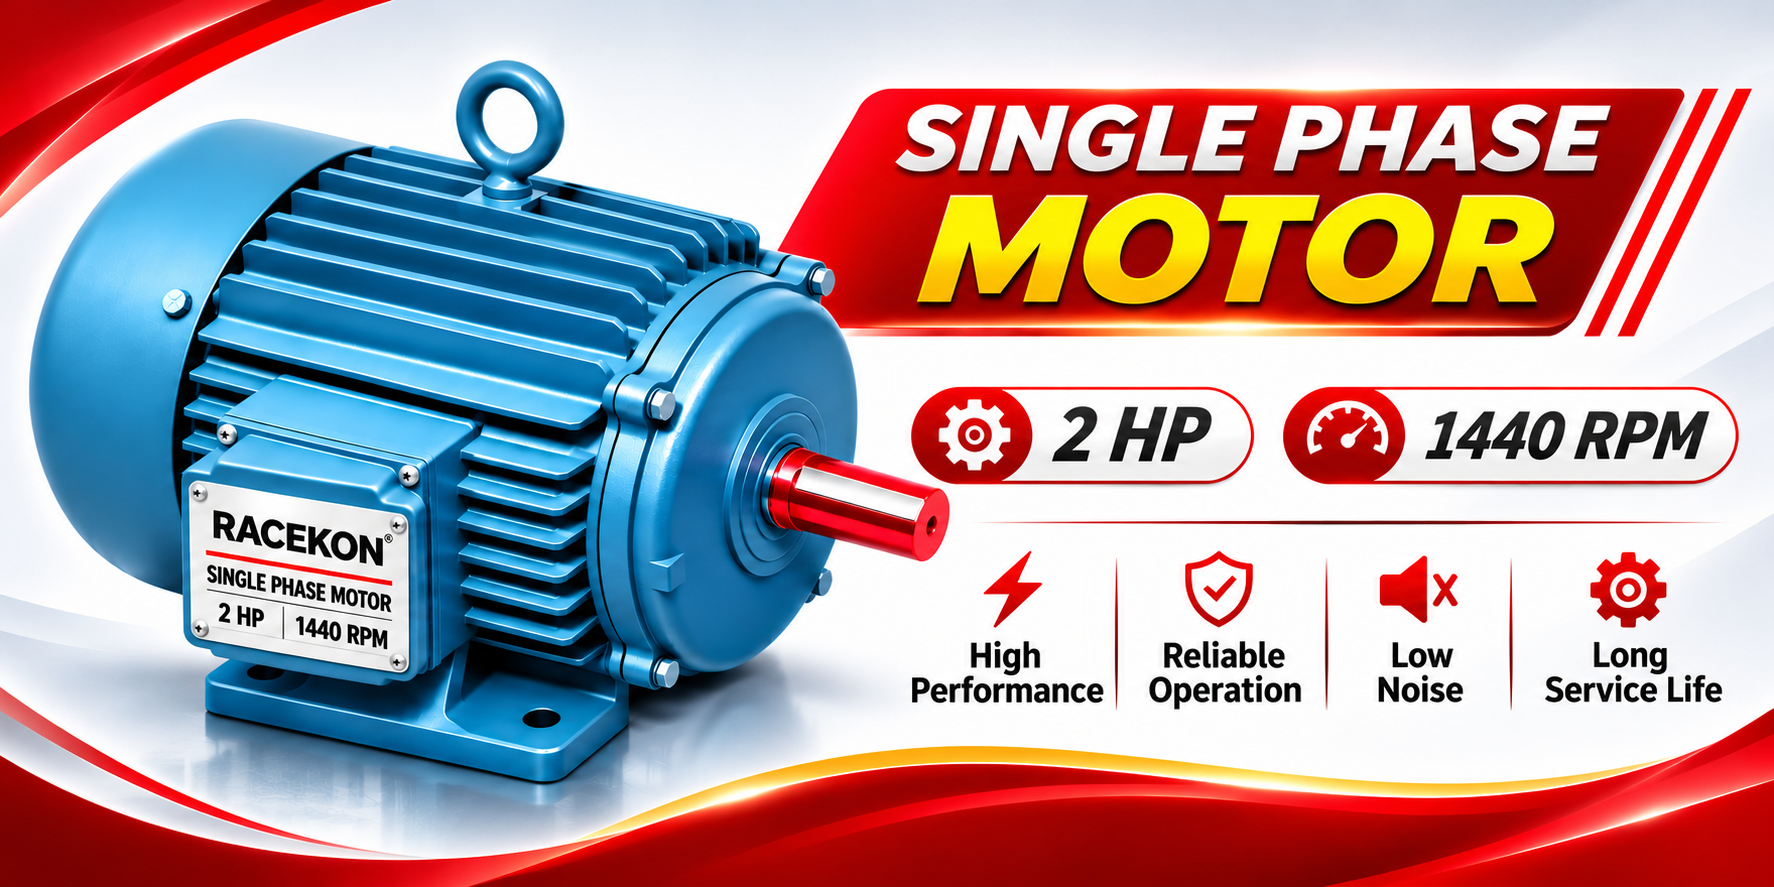
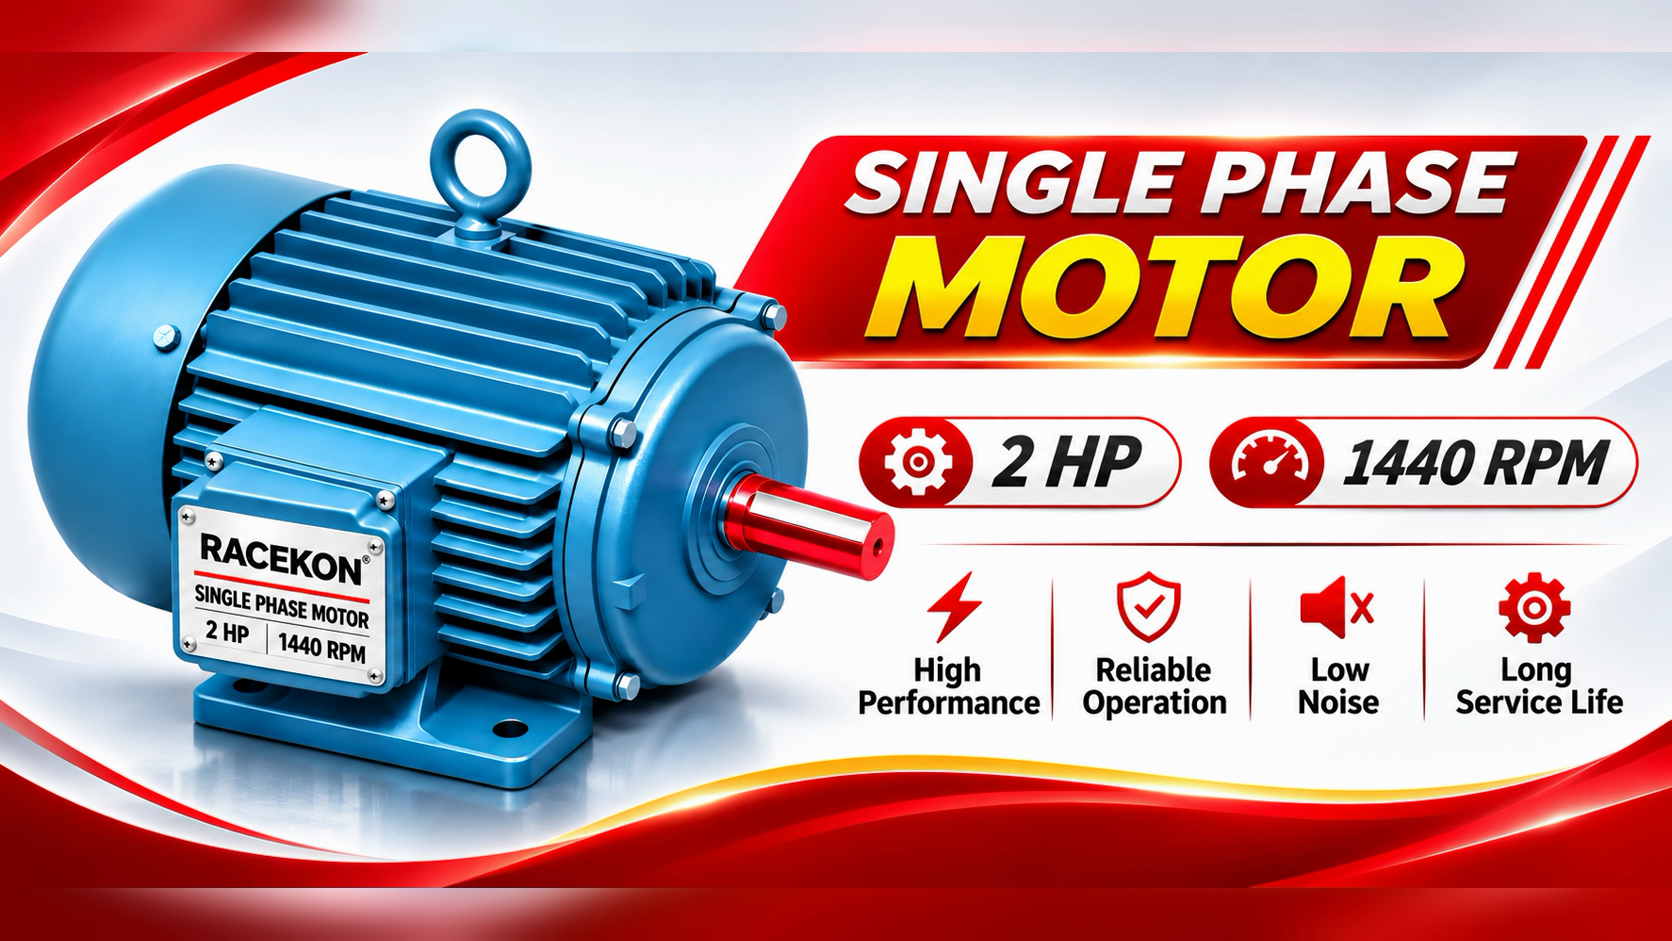
slider config

diff --git a/index.htm b/index.htm
@@ -8,6 +8,7 @@
   <link media="all" href="wp-content/cache/autoptimize/css/autoptimize_dfbdf34f569ed2bd21aea2799009aac2.css"
     rel="stylesheet">
   <title>RACEKON &#8211; MANUFACTURER OF AC SYNCHRONOUS MOTOR</title>
+  <script src="slider-config.js"></script>
   <meta name='robots' content='max-image-preview:large'>
   <link rel='dns-prefetch' href='//client.crisp.chat'>
   <link rel='dns-prefetch' href='//fonts.googleapis.com'>
@@ -49,8 +50,43 @@
   <meta name="msapplication-TileImage"
     content="https://www.racekon.com/wp-content/uploads/2018/07/cropped-IMG_20180725_125405-2-270x270.jpg">
   <script>(function () { this._N2 = this._N2 || { _r: [], _d: [], r: function () { this._r.push(arguments) }, d: function () { this._d.push(arguments) } } }).call(window); !function (a) { a.indexOf("Safari") > 0 && -1 === a.indexOf("Chrome") && document.documentElement.style.setProperty("--ss-safari-fix-225962", "1px") }(navigator.userAgent);</script>
-  <script>_N2.r('documentReady', function () { _N2.r(["documentReady", "smartslider-frontend", "SmartSliderWidgetArrowImage", "SmartSliderWidgetBulletTransition", "ss-simple"], function () { new _N2.SmartSliderSimple('n2-ss-2', { "admin": false, "callbacks": "", "background.video.mobile": 1, "loadingTime": 2000, "alias": { "id": 0, "smoothScroll": 0, "slideSwitch": 0, "scroll": 1 }, "align": "normal", "isDelayed": 0, "responsive": { "mediaQueries": { "all": false, "desktopportrait": ["(min-width: 1200px)"], "tabletportrait": ["(orientation: landscape) and (max-width: 1199px) and (min-width: 901px)", "(orientation: portrait) and (max-width: 1199px) and (min-width: 701px)"], "mobileportrait": ["(orientation: landscape) and (max-width: 900px)", "(orientation: portrait) and (max-width: 700px)"] }, "base": { "slideOuterWidth": 300, "slideOuterHeight": 150, "sliderWidth": 300, "sliderHeight": 150, "slideWidth": 300, "slideHeight": 150 }, "hideOn": { "desktopLandscape": false, "desktopPortrait": false, "tabletLandscape": false, "tabletPortrait": false, "mobileLandscape": false, "mobilePortrait": false }, "onResizeEnabled": true, "type": "auto", "sliderHeightBasedOn": "real", "focusUser": 1, "focusEdge": "auto", "breakpoints": [{ "device": "tabletPortrait", "type": "max-screen-width", "portraitWidth": 1199, "landscapeWidth": 1199 }, { "device": "mobilePortrait", "type": "max-screen-width", "portraitWidth": 700, "landscapeWidth": 900 }], "enabledDevices": { "desktopLandscape": 0, "desktopPortrait": 1, "tabletLandscape": 0, "tabletPortrait": 1, "mobileLandscape": 0, "mobilePortrait": 1 }, "sizes": { "desktopPortrait": { "width": 300, "height": 150, "max": 3000, "min": 300 }, "tabletPortrait": { "width": 300, "height": 150, "customHeight": false, "max": 1199, "min": 300 }, "mobilePortrait": { "width": 300, "height": 150, "customHeight": false, "max": 900, "min": 300 } }, "overflowHiddenPage": 0, "focus": { "offsetTop": "#wpadminbar", "offsetBottom": "" } }, "controls": { "mousewheel": 0, "touch": "horizontal", "keyboard": 1, "blockCarouselInteraction": 1 }, "playWhenVisible": 1, "playWhenVisibleAt": 0.5, "lazyLoad": 0, "lazyLoadNeighbor": 0, "blockrightclick": 0, "maintainSession": 0, "autoplay": { "enabled": 1, "start": 1, "duration": 2000, "autoplayLoop": 1, "allowReStart": 0, "pause": { "click": 0, "mouse": "0", "mediaStarted": 1 }, "resume": { "click": 0, "mouse": "0", "mediaEnded": 1, "slidechanged": 0 }, "interval": 1, "intervalModifier": "loop", "intervalSlide": "current" }, "perspective": 1500, "layerMode": { "playOnce": 0, "playFirstLayer": 1, "mode": "skippable", "inAnimation": "mainInEnd" }, "bgAnimations": 0, "mainanimation": { "type": "fade", "duration": 600, "delay": 0, "ease": "easeOutQuad", "shiftedBackgroundAnimation": 0 }, "carousel": 1, "initCallbacks": function () { new _N2.SmartSliderWidgetArrowImage(this); new _N2.SmartSliderWidgetBulletTransition(this, { "area": 12, "dotClasses": "n2-style-98b890a69860771f94d32019bd5202d1-dot ", "mode": "", "action": "click", "thumbnail": 1, "thumbnailWidth": 120, "thumbnailHeight": 81, "thumbnailStyle": "n2-style-4eb0cfe3f8b39eae2833f25a46a1ccc3-simple ", "thumbnailPosition": "top" }) } }) }) });</script>
+  <script>_N2.r('documentReady', function () { _N2.r(["documentReady", "smartslider-frontend", "SmartSliderWidgetArrowImage", "SmartSliderWidgetBulletTransition", "ss-simple"], function () { new _N2.SmartSliderSimple('n2-ss-2', { "admin": false, "callbacks": "", "background.video.mobile": 1, "loadingTime": 2000, "alias": { "id": 0, "smoothScroll": 0, "slideSwitch": 0, "scroll": 1 }, "align": "normal", "isDelayed": 0, "responsive": { "mediaQueries": { "all": false, "desktopportrait": ["(min-width: 1200px)"], "tabletportrait": ["(orientation: landscape) and (max-width: 1199px) and (min-width: 901px)", "(orientation: portrait) and (max-width: 1199px) and (min-width: 701px)"], "mobileportrait": ["(orientation: landscape) and (max-width: 900px)", "(orientation: portrait) and (max-width: 700px)"] }, "base": { "slideOuterWidth": 1672, "slideOuterHeight": 941, "sliderWidth": 1672, "sliderHeight": 941, "slideWidth": 1672, "slideHeight": 941 }, "hideOn": { "desktopLandscape": false, "desktopPortrait": false, "tabletLandscape": false, "tabletPortrait": false, "mobileLandscape": false, "mobilePortrait": false }, "onResizeEnabled": true, "type": "auto", "sliderHeightBasedOn": "real", "focusUser": 1, "focusEdge": "auto", "breakpoints": [{ "device": "tabletPortrait", "type": "max-screen-width", "portraitWidth": 1199, "landscapeWidth": 1199 }, { "device": "mobilePortrait", "type": "max-screen-width", "portraitWidth": 700, "landscapeWidth": 900 }], "enabledDevices": { "desktopLandscape": 0, "desktopPortrait": 1, "tabletLandscape": 0, "tabletPortrait": 1, "mobileLandscape": 0, "mobilePortrait": 1 }, "sizes": { "desktopPortrait": { "width": 1672, "height": 941, "max": 5000, "min": 300 }, "tabletPortrait": { "width": 1672, "height": 941, "customHeight": false, "max": 1199, "min": 300 }, "mobilePortrait": { "width": 1672, "height": 941, "customHeight": false, "max": 900, "min": 300 } }, "overflowHiddenPage": 0, "focus": { "offsetTop": "#wpadminbar", "offsetBottom": "" } }, "controls": { "mousewheel": 0, "touch": "horizontal", "keyboard": 1, "blockCarouselInteraction": 1 }, "playWhenVisible": 1, "playWhenVisibleAt": 0.5, "lazyLoad": 0, "lazyLoadNeighbor": 0, "blockrightclick": 0, "maintainSession": 0, "autoplay": { "enabled": 1, "start": 1, "duration": 2000, "autoplayLoop": 1, "allowReStart": 0, "pause": { "click": 0, "mouse": "0", "mediaStarted": 1 }, "resume": { "click": 0, "mouse": "0", "mediaEnded": 1, "slidechanged": 0 }, "interval": 1, "intervalModifier": "loop", "intervalSlide": "current" }, "perspective": 1500, "layerMode": { "playOnce": 0, "playFirstLayer": 1, "mode": "skippable", "inAnimation": "mainInEnd" }, "bgAnimations": 0, "mainanimation": { "type": "fade", "duration": 600, "delay": 0, "ease": "easeOutQuad", "shiftedBackgroundAnimation": 0 }, "carousel": 1, "initCallbacks": function () { new _N2.SmartSliderWidgetArrowImage(this); new _N2.SmartSliderWidgetBulletTransition(this, { "area": 12, "dotClasses": "n2-style-98b890a69860771f94d32019bd5202d1-dot ", "mode": "", "action": "click", "thumbnail": 1, "thumbnailWidth": 120, "thumbnailHeight": 81, "thumbnailStyle": "n2-style-4eb0cfe3f8b39eae2833f25a46a1ccc3-simple ", "thumbnailPosition": "top" }) } }) }) });</script>
   <style>
+    /* Full-width carousel slider on homepage */
+    .home .site-content > .ast-container {
+      max-width: 100% !important;
+      padding-left: 0 !important;
+      padding-right: 0 !important;
+    }
+    .elementor-section.elementor-element-0f16af0 {
+      max-width: 100% !important;
+      width: auto !important;
+      padding: var(--slider-padding-top, 0) var(--slider-padding-right, 0) var(--slider-padding-bottom, 0) var(--slider-padding-left, 0) !important;
+      margin: var(--slider-margin-top, 15px) var(--slider-margin-right, 0) var(--slider-margin-bottom, 35px) var(--slider-margin-left, 0) !important;
+      box-sizing: border-box !important;
+    }
+    .elementor-element-0f16af0 > .elementor-container {
+      max-width: 100% !important;
+      width: 100% !important;
+      padding: 0 !important;
+      margin: 0 !important;
+    }
+    .elementor-element-0f16af0 .elementor-column-wrap,
+    .elementor-element-0f16af0 .elementor-widget-wrap,
+    .elementor-element-0f16af0 .elementor-widget-container,
+    .elementor-element-0f16af0 .n2-section-smartslider,
+    .elementor-element-0f16af0 .n2-ss-align,
+    .elementor-element-0f16af0 .n2-padding {
+      width: 100% !important;
+      max-width: 100% !important;
+      padding: 0 !important;
+      margin: 0 !important;
+    }
+    #n2-ss-2,
+    #n2-ss-2-align {
+      width: 100% !important;
+      max-width: 100% !important;
+    }
     #n2-ss-2 .n2-ss-slide-background-image img {
       object-fit: contain !important;
       object-position: center bottom !important;
@@ -108,9 +144,9 @@
                   <div class="elementor-inner">
                     <div class="elementor-section-wrap">
                       <section
-                        class="elementor-section elementor-top-section elementor-element elementor-element-0f16af0 elementor-section-boxed elementor-section-height-default elementor-section-height-default"
+                        class="elementor-section elementor-top-section elementor-element elementor-element-0f16af0 elementor-section-full_width elementor-section-height-default elementor-section-height-default"
                         data-id="0f16af0" data-element_type="section">
-                        <div class="elementor-container elementor-column-gap-default">
+                        <div class="elementor-container elementor-column-gap-no">
                           <div class="elementor-row">
                             <div
                               class="elementor-column elementor-col-100 elementor-top-column elementor-element elementor-element-21bb3c6"
@@ -206,7 +242,7 @@
                                                           </div>
                                                         </div>
                                                         <div class="n2-ss-slider-4 n2-ow"> <svg
-                                                            xmlns="http://www.w3.org/2000/svg" viewbox="0 0 300 150"
+                                                            xmlns="http://www.w3.org/2000/svg" viewbox="0 0 1672 941"
                                                             data-related-device="desktopPortrait"
                                                             class="n2-ow n2-ss-preserve-size n2-ss-preserve-size--slider n2-ss-slide-limiter"></svg>
                                                           <div data-first="1" data-slide-duration="0" data-id="41"

diff --git a/slider-config.js b/slider-config.js
@@ -1,0 +1,118 @@
+/**
+ * ========================================================
+ * RACEKON – Homepage Carousel Slider Configuration
+ * ========================================================
+ * Edit padding and margin values below and save the file.
+ * Refresh the homepage (index.htm) in your browser and
+ * changes will reflect instantly!
+ * ========================================================
+ */
+var SLIDER_CONFIG = {
+  // Desktop Spacing (>= 768px)
+  margin_top_px: 0,          // Vertical gap above the slider
+  margin_bottom_px: 15,       // Vertical gap below the slider
+  margin_left_px: 30,          // Left margin (keep 0 for edge-to-edge full width)
+  margin_right_px: 30,         // Right margin (keep 0 for edge-to-edge full width)
+  padding_top_px: 0,          // Top padding inside slider wrapper
+  padding_bottom_px: 0,       // Bottom padding inside slider wrapper
+  padding_left_px: 0,         // Inset slider from the left screen edge
+  padding_right_px: 0,        // Inset slider from the right screen edge
+
+  // Mobile Spacing (< 768px)
+  mobile_margin_top_px: 10,
+  mobile_margin_bottom_px: 25,
+  mobile_padding_left_px: 0,
+  mobile_padding_right_px: 0
+};
+
+(function () {
+  var cfg = (typeof SLIDER_CONFIG !== 'undefined') ? SLIDER_CONFIG : {};
+
+  var mTop = (cfg.margin_top_px != null) ? cfg.margin_top_px : 15;
+  var mBottom = (cfg.margin_bottom_px != null) ? cfg.margin_bottom_px : 35;
+  var mLeft = (cfg.margin_left_px != null) ? cfg.margin_left_px : 0;
+  var mRight = (cfg.margin_right_px != null) ? cfg.margin_right_px : 0;
+  var pTop = (cfg.padding_top_px != null) ? cfg.padding_top_px : 0;
+  var pBottom = (cfg.padding_bottom_px != null) ? cfg.padding_bottom_px : 0;
+  var pLeft = (cfg.padding_left_px != null) ? cfg.padding_left_px : 0;
+  var pRight = (cfg.padding_right_px != null) ? cfg.padding_right_px : 0;
+
+  var mobMTop = (cfg.mobile_margin_top_px != null) ? cfg.mobile_margin_top_px : 10;
+  var mobMBottom = (cfg.mobile_margin_bottom_px != null) ? cfg.mobile_margin_bottom_px : 25;
+  var mobPLeft = (cfg.mobile_padding_left_px != null) ? cfg.mobile_padding_left_px : 0;
+  var mobPRight = (cfg.mobile_padding_right_px != null) ? cfg.mobile_padding_right_px : 0;
+
+  var css = [
+    ':root {',
+    '  --slider-margin-top: ' + mTop + 'px;',
+    '  --slider-margin-bottom: ' + mBottom + 'px;',
+    '  --slider-margin-left: ' + mLeft + 'px;',
+    '  --slider-margin-right: ' + mRight + 'px;',
+    '  --slider-padding-top: ' + pTop + 'px;',
+    '  --slider-padding-bottom: ' + pBottom + 'px;',
+    '  --slider-padding-left: ' + pLeft + 'px;',
+    '  --slider-padding-right: ' + pRight + 'px;',
+    '}',
+    '.home .site-content > .ast-container {',
+    '  max-width: 100% !important;',
+    '  padding-left: 0 !important;',
+    '  padding-right: 0 !important;',
+    '}',
+    '.elementor-section.elementor-element-0f16af0 {',
+    '  max-width: 100% !important;',
+    '  width: auto !important;',
+    '  box-sizing: border-box !important;',
+    '  margin-top: var(--slider-margin-top) !important;',
+    '  margin-bottom: var(--slider-margin-bottom) !important;',
+    '  margin-left: var(--slider-margin-left) !important;',
+    '  margin-right: var(--slider-margin-right) !important;',
+    '  padding-top: var(--slider-padding-top) !important;',
+    '  padding-bottom: var(--slider-padding-bottom) !important;',
+    '  padding-left: var(--slider-padding-left) !important;',
+    '  padding-right: var(--slider-padding-right) !important;',
+    '}',
+    '.elementor-element-0f16af0 > .elementor-container {',
+    '  max-width: 100% !important;',
+    '  width: 100% !important;',
+    '  padding: 0 !important;',
+    '  margin: 0 !important;',
+    '}',
+    '.elementor-element-0f16af0 .elementor-column-wrap,',
+    '.elementor-element-0f16af0 .elementor-widget-wrap,',
+    '.elementor-element-0f16af0 .elementor-widget-container,',
+    '.elementor-element-0f16af0 .n2-section-smartslider,',
+    '.elementor-element-0f16af0 .n2-ss-align,',
+    '.elementor-element-0f16af0 .n2-padding {',
+    '  width: 100% !important;',
+    '  max-width: 100% !important;',
+    '  padding: 0 !important;',
+    '  margin: 0 !important;',
+    '}',
+    '#n2-ss-2,',
+    '#n2-ss-2-align {',
+    '  width: 100% !important;',
+    '  max-width: 100% !important;',
+    '}',
+    '#n2-ss-2 .n2-ss-slide-background-image img {',
+    '  object-fit: contain !important;',
+    '  object-position: center bottom !important;',
+    '}',
+    '@media (max-width: 767px) {',
+    '  .elementor-section.elementor-element-0f16af0 {',
+    '    margin-top: ' + mobMTop + 'px !important;',
+    '    margin-bottom: ' + mobMBottom + 'px !important;',
+    '    padding-left: ' + mobPLeft + 'px !important;',
+    '    padding-right: ' + mobPRight + 'px !important;',
+    '  }',
+    '}'
+  ].join('\n');
+
+  var style = document.getElementById('slider-config-style');
+  if (!style) {
+    style = document.createElement('style');
+    style.id = 'slider-config-style';
+    var head = document.head || document.getElementsByTagName('head')[0];
+    if (head) head.appendChild(style);
+  }
+  style.textContent = css;
+})();

diff --git a/motor-config.js b/motor-config.js
@@ -20,7 +20,14 @@ var MOTOR_CONFIG = {
   desktop_base_width_px: 366,
   desktop_base_height_px: 400,
   mobile_fixed_width_px: 280,    // Fixed mobile width (stays unchanged)
-  mobile_fixed_height_px: 306    // Fixed mobile height (stays unchanged)
+  mobile_fixed_height_px: 306,   // Fixed mobile height (stays unchanged)
+  banner_padding_top_px: 24,     // Top padding of white background banner
+  banner_padding_bottom_px: 24,  // Bottom padding of white background banner
+  banner_margin_top_px: 0,       // Top margin above banner
+  banner_margin_bottom_px: 40,   // Bottom margin below banner
+  mobile_banner_padding_top_px: 16,
+  mobile_banner_padding_bottom_px: 16,
+  mobile_banner_margin_bottom_px: 25
 };
 
 /* ── Auto-apply to browser ── */
@@ -40,6 +47,14 @@ var MOTOR_CONFIG = {
   var mobW = (MOTOR_CONFIG && (MOTOR_CONFIG.mobile_fixed_width_px || MOTOR_CONFIG.mobile_base_width_px)) || 280;
   var mobH = (MOTOR_CONFIG && (MOTOR_CONFIG.mobile_fixed_height_px || MOTOR_CONFIG.mobile_base_height_px)) || 306;
 
+  var padTop = (MOTOR_CONFIG && MOTOR_CONFIG.banner_padding_top_px != null) ? MOTOR_CONFIG.banner_padding_top_px : 24;
+  var padBottom = (MOTOR_CONFIG && MOTOR_CONFIG.banner_padding_bottom_px != null) ? MOTOR_CONFIG.banner_padding_bottom_px : 24;
+  var marTop = (MOTOR_CONFIG && MOTOR_CONFIG.banner_margin_top_px != null) ? MOTOR_CONFIG.banner_margin_top_px : 0;
+  var marBottom = (MOTOR_CONFIG && MOTOR_CONFIG.banner_margin_bottom_px != null) ? MOTOR_CONFIG.banner_margin_bottom_px : 40;
+  var mobPadTop = (MOTOR_CONFIG && MOTOR_CONFIG.mobile_banner_padding_top_px != null) ? MOTOR_CONFIG.mobile_banner_padding_top_px : 16;
+  var mobPadBottom = (MOTOR_CONFIG && MOTOR_CONFIG.mobile_banner_padding_bottom_px != null) ? MOTOR_CONFIG.mobile_banner_padding_bottom_px : 16;
+  var mobMarBottom = (MOTOR_CONFIG && MOTOR_CONFIG.mobile_banner_margin_bottom_px != null) ? MOTOR_CONFIG.mobile_banner_margin_bottom_px : 25;
+
   var desktopW = Math.round(baseW * scale);
   var desktopH = Math.round(baseH * scale);
 
@@ -50,6 +65,10 @@ var MOTOR_CONFIG = {
     '  --motor-desktop-height: ' + desktopH + 'px;',
     '  --motor-mobile-width: ' + mobW + 'px;',
     '  --motor-mobile-height: ' + mobH + 'px;',
+    '  --motor-banner-padding-top: ' + padTop + 'px;',
+    '  --motor-banner-padding-bottom: ' + padBottom + 'px;',
+    '  --motor-banner-margin-top: ' + marTop + 'px;',
+    '  --motor-banner-margin-bottom: ' + marBottom + 'px;',
     '}',
     'html, body {',
     '  overflow-x: hidden;',
@@ -124,9 +143,9 @@ var MOTOR_CONFIG = {
     '  align-items: center !important;',
     '  text-align: center !important;',
     '  box-sizing: border-box !important;',
-    '  padding: 24px 0 !important;',
-    '  margin-top: 0 !important;',
-    '  margin-bottom: 40px !important;',
+    '  padding: ' + padTop + 'px 0 ' + padBottom + 'px 0 !important;',
+    '  margin-top: ' + marTop + 'px !important;',
+    '  margin-bottom: ' + marBottom + 'px !important;',
     '}',
     '.motor-hero-section + .elementor-top-section {',
     '  padding-top: 0 !important;',
@@ -147,8 +166,8 @@ var MOTOR_CONFIG = {
     '@media (max-width: 767px) {',
     '  .motor-image-banner-wrap,',
     '  .elementor-widget-image .elementor-image.motor-image-banner-wrap {',
-    '    padding: 16px 0 !important;',
-    '    margin-bottom: 25px !important;',
+    '    padding: ' + mobPadTop + 'px 0 ' + mobPadBottom + 'px 0 !important;',
+    '    margin-bottom: ' + mobMarBottom + 'px !important;',
     '  }',
     '  .elementor-widget-image .elementor-image img.motor-product-img,',
     '  .elementor-widget-image .elementor-image img[src*="-motor.png"] {',

diff --git a/motor-style.css b/motor-style.css
@@ -10,6 +10,10 @@
   --motor-desktop-height: calc(var(--motor-base-height) * var(--motor-scale));
   --motor-mobile-width: 280px;
   --motor-mobile-height: 306px;
+  --motor-banner-padding-top: 24px;
+  --motor-banner-padding-bottom: 24px;
+  --motor-banner-margin-top: 0px;
+  --motor-banner-margin-bottom: 40px;
 }
 
 /* Prevent horizontal scrollbars caused by 100vw breakout */
@@ -96,9 +100,9 @@ html, body {
   align-items: center !important;
   text-align: center !important;
   box-sizing: border-box !important;
-  padding: 24px 0 !important;
-  margin-top: 0 !important;
-  margin-bottom: 40px !important;
+  padding: var(--motor-banner-padding-top, 24px) 0 var(--motor-banner-padding-bottom, 24px) 0 !important;
+  margin-top: var(--motor-banner-margin-top, 0px) !important;
+  margin-bottom: var(--motor-banner-margin-bottom, 40px) !important;
 }
 
 /* In 14-kg and 80-kg where next section follows, reset excessive top padding so margin-bottom sets the exact 40px gap */
